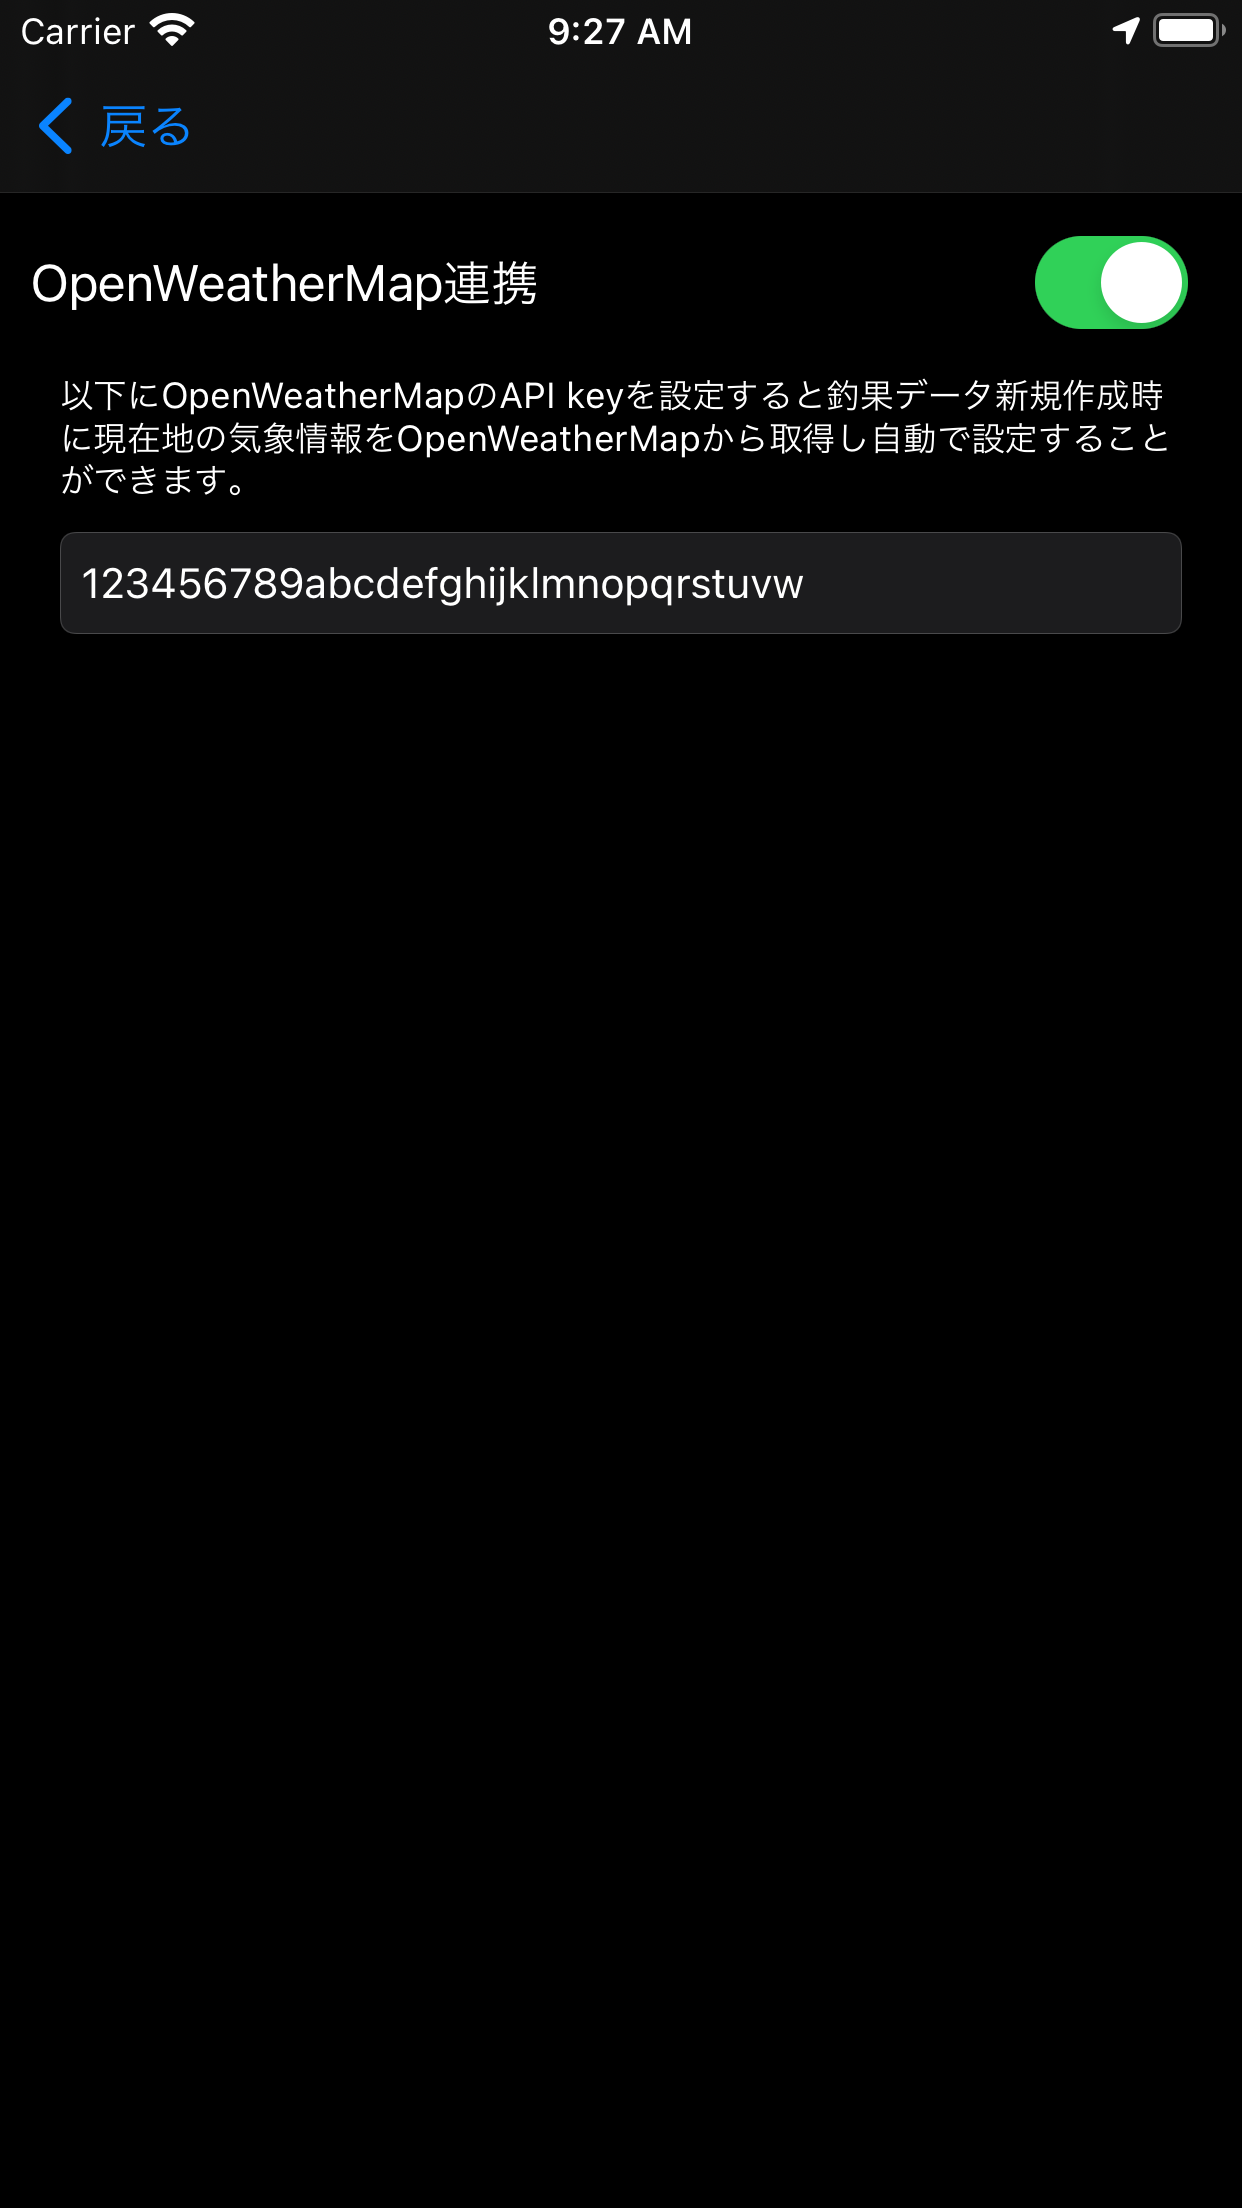
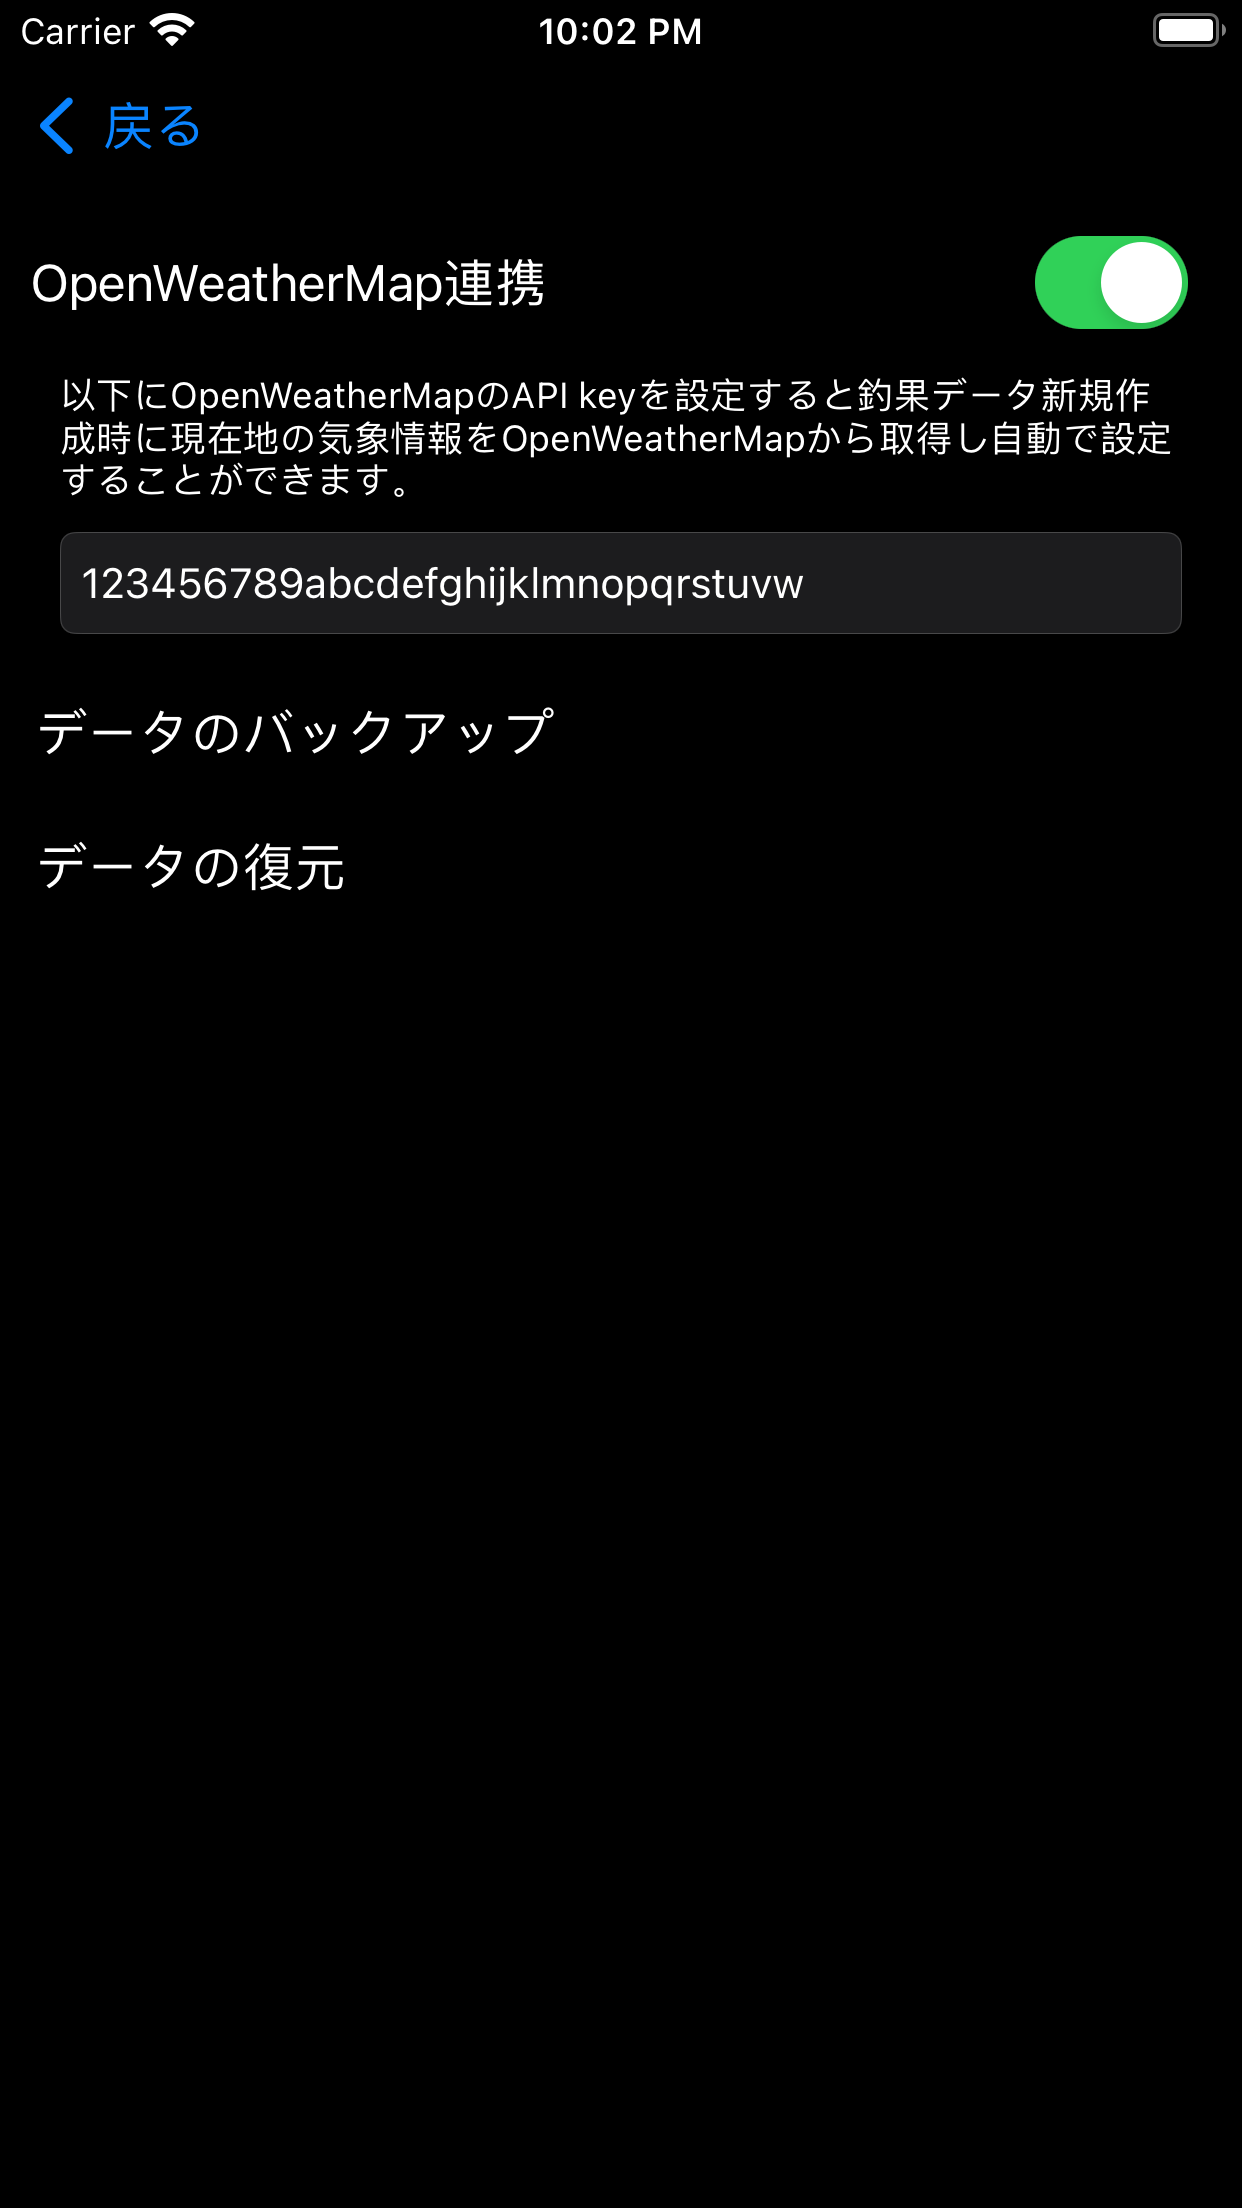
add icloud backup

diff --git a/app-basslog.html b/app-basslog.html
@@ -261,10 +261,13 @@
         <div class="features3-content">
           <h2 class="section-title">アプリケーションの設定変更</h2>
             <p><i class="fa fa-circle"></i>OpenWeatherMap連携<br>
-               気象データ自動取得のOpenWeatherMapのAPI Keyを設定します。<br>
-               気象データを自動取得する場合、OpenWeatherMap連携のスイッチをONにしてOpenWeatherMapから発行されたAPI Keyを入力してください。<br>
-               OpenWeatherMapのAPI Keyの取得方法については<a href="owm-apikey.html">こちら</a>を参照してください。</p>
-        </div>
+              気象データ自動取得のOpenWeatherMapのAPI Keyを設定します。<br>
+              気象データを自動取得する場合、OpenWeatherMap連携のスイッチをONにしてOpenWeatherMapから発行されたAPI Keyを入力してください。<br>
+              OpenWeatherMapのAPI Keyの取得方法については<a href="owm-apikey.html">こちら</a>を参照してください。</p>
+            <p><i class="fa fa-circle"></i>データのバックアップ/データの復元<br>
+              釣果データベースをiCloudにバックアップまたはバックアップしたデータベースを復元します。<br>
+              使用するためにiCloud Driveの設定でiPhoneの同期をオンにしてください。<br>
+         </div>
       </div>
 
       <div class="col-md-6">
